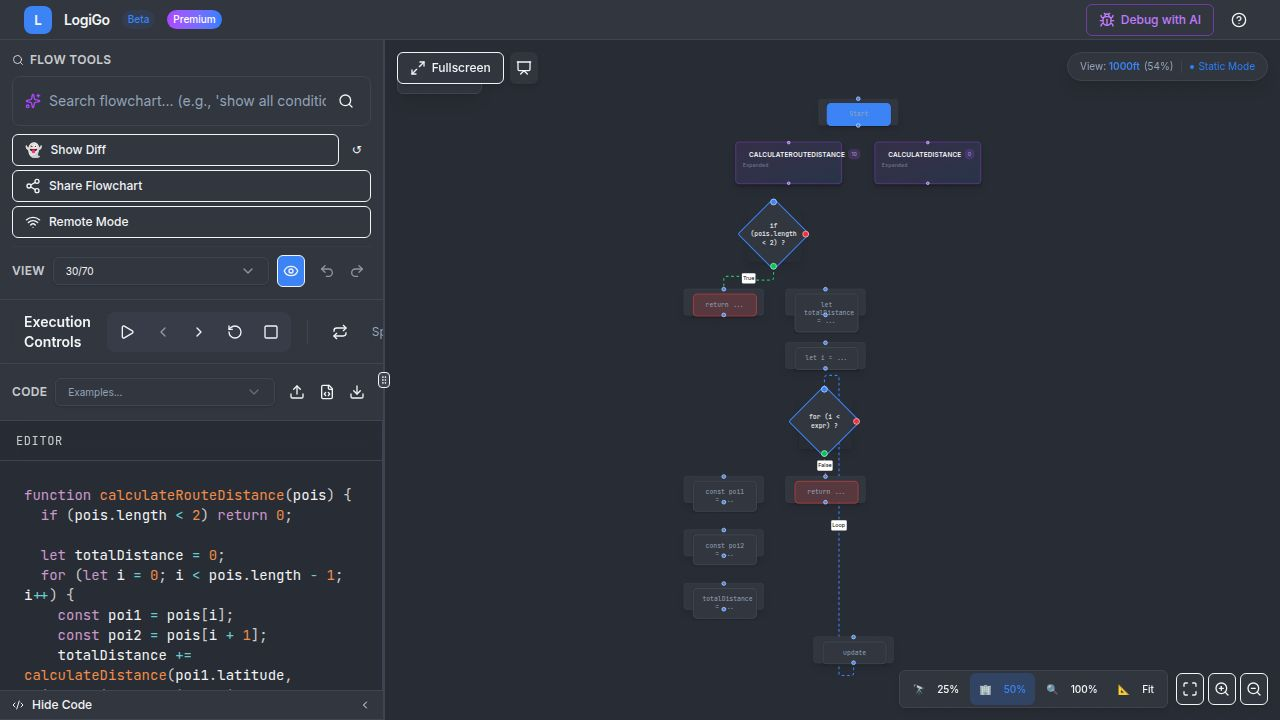
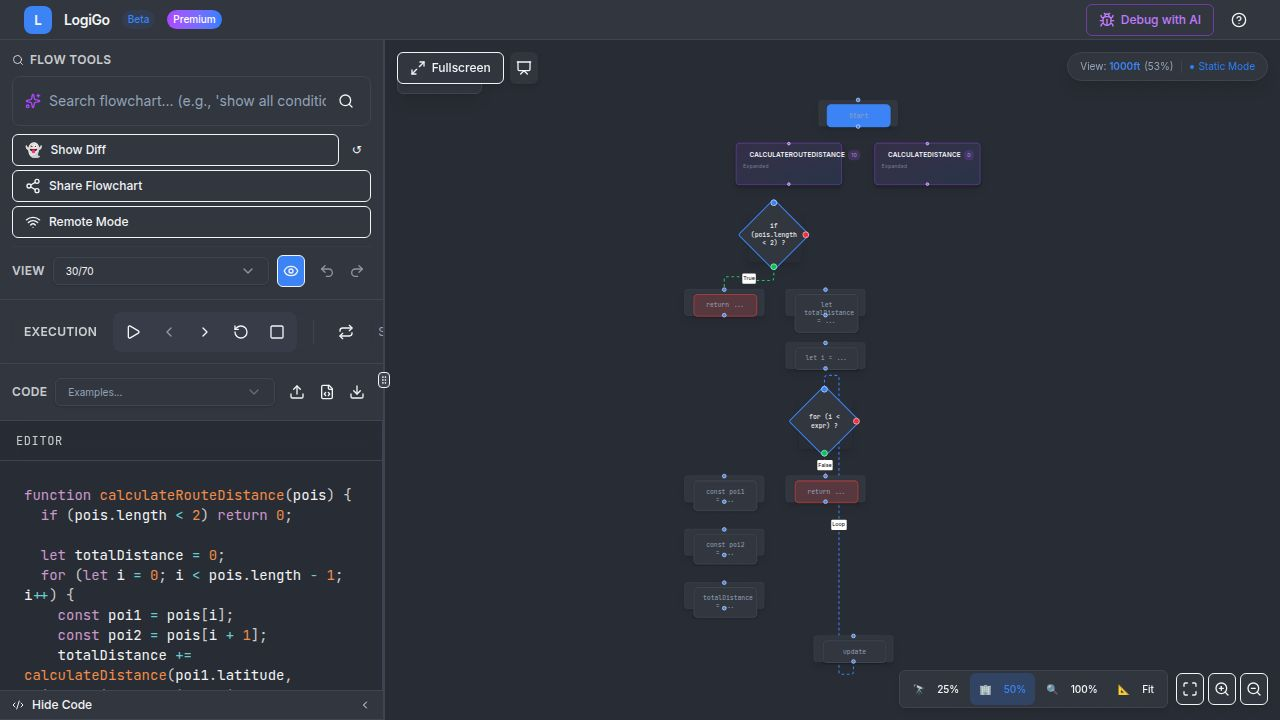
Standardize sidebar headings to match design guidelines
Update font, size, and color for "Editor" and "Execution Controls" headings in the sidebar to match the established design system.

Replit-Commit-Author: Agent
Replit-Commit-Session-Id: 8eef41ac-1e56-439e-b814-5fc46b5c16e8
Replit-Commit-Checkpoint-Type: full_checkpoint
Replit-Commit-Event-Id: 9bad89ba-ba54-4ba3-a253-be8c9c7fe1bb
Replit-Commit-Screenshot-Url: https://storage.googleapis.com/screenshot-production-us-central1/c6286185-f7a0-44fb-b9ef-778ffbfe6e9c/8eef41ac-1e56-439e-b814-5fc46b5c16e8/BtW72wX
Replit-Helium-Checkpoint-Created: true

diff --git a/client/src/components/ide/CodeEditor.tsx b/client/src/components/ide/CodeEditor.tsx
@@ -12,8 +12,8 @@ interface CodeEditorProps {
 export function CodeEditor({ code, onChange, highlightedLine }: CodeEditorProps) {
   return (
     <div className="h-full w-full bg-sidebar border-r border-border flex flex-col">
-      <div className="h-10 border-b border-border flex items-center px-4 bg-sidebar/50 backdrop-blur text-xs font-mono text-foreground/80 uppercase tracking-wider">
-        Editor
+      <div className="h-8 border-b border-border flex items-center px-3 bg-sidebar/50 backdrop-blur">
+        <span className="text-xs font-semibold text-foreground/80 uppercase tracking-wide">Editor</span>
       </div>
       <div className="flex-1 overflow-auto font-mono text-sm relative">
         <Editor

diff --git a/client/src/components/ide/ExecutionControls.tsx b/client/src/components/ide/ExecutionControls.tsx
@@ -64,7 +64,7 @@ export function ExecutionControls({
   return (
     <div className="h-16 border-b border-border bg-card/50 backdrop-blur flex items-center px-6 justify-between">
       <div className="flex items-center gap-4">
-        <h2 className="text-sm font-semibold text-foreground">Execution Controls</h2>
+        <h2 className="text-xs font-semibold text-foreground/80 uppercase tracking-wide">Execution</h2>
         
         <div className="flex items-center gap-1 bg-muted/50 rounded p-1">
           <button
